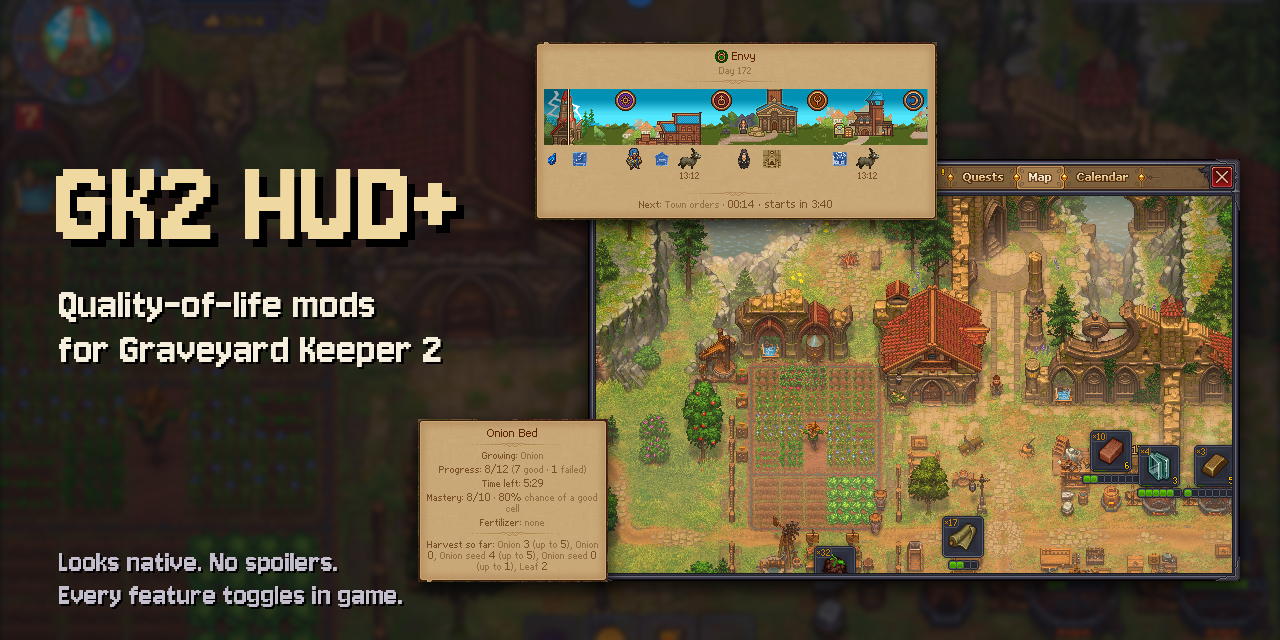
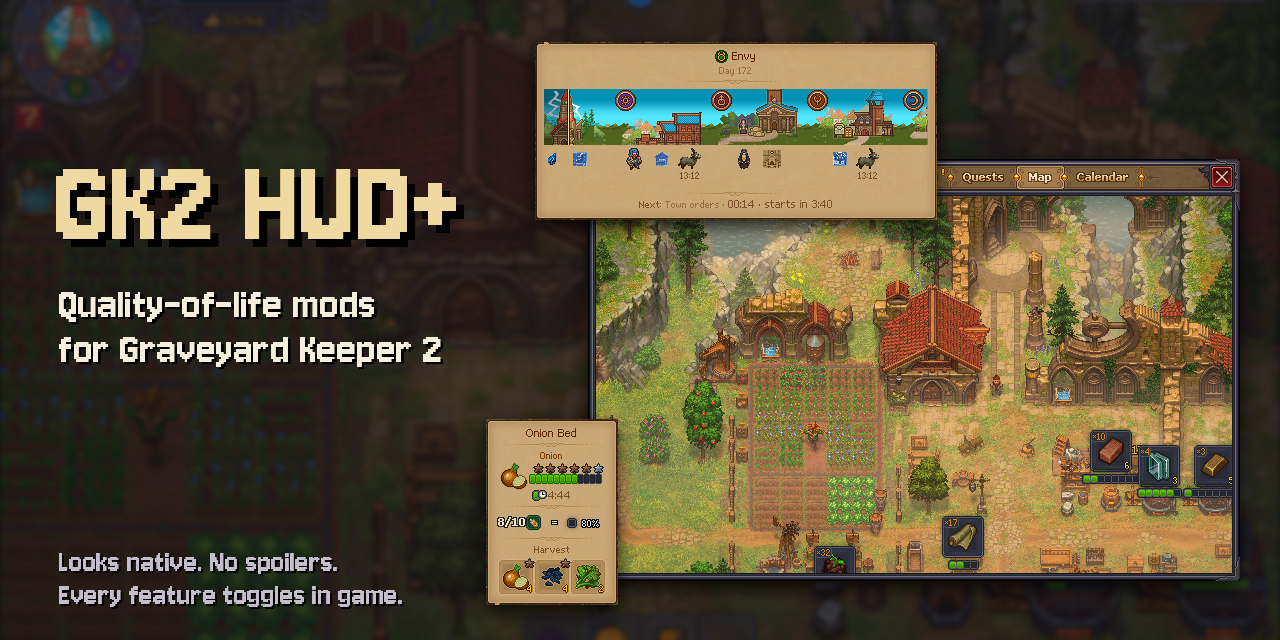
Capa e clipe de gameplay com os tooltips em dois níveis: a capa mostra a bolha de mundo fixada (barra de células, chance e colheita) alinhada ao pé da janela do mapa, e as tomadas de mundo e de tooltips do clipe foram regravadas

Changed region(s): [[0.3125, 0.6562, 0.5, 0.9688]]

diff --git a/tools/rec/cover.py b/tools/rec/cover.py
@@ -1,7 +1,7 @@
 #!/usr/bin/env python3
 """Capa do projeto a partir de prints reais do green (.shots/*-capa-<nome>.png, o mais recente de cada).
 
-Prints: capa-limpo (quintal), capa-mundo (demo-world FIM=primeiro), capa-medalhao (demo-calendar MODO=medalhao FIM=meio),
+Prints: capa-limpo (quintal), capa-mundo (demo-world FIM=primeiro, fixado com gk2hud-mundo-fixar.cs LINK vazio), capa-medalhao (demo-calendar MODO=medalhao FIM=meio),
 capa-mapa (demo-map MODO=zoom FIM=meio). Saídas: docs/showcase/cover.png (1280x640: topo do README e prévia social do
 GitHub) e docs/media/capa/ (matriz 2560x1280 e quadrada 1024 para a miniatura da Workshop).
 
@@ -59,7 +59,7 @@ def text(draw, xy, s, size, color, anchor="la"):
 
 
 clean, world, wheel, gmap = shot("limpo"), shot("mundo"), shot("medalhao"), shot("mapa")
-tip = world.crop(parchment_box(world, (380, 140, 820, 520)))
+tip = world.crop(parchment_box(world, (380, 140, 820, 760)))
 week = wheel.crop(parchment_box(wheel, (80, 220, 930, 620)))
 window = gmap.crop((308, 118, 1612, 962))
 print("recortes:", tip.size, week.size, window.size)
@@ -68,7 +68,7 @@ print("recortes:", tip.size, week.size, window.size)
 wide = backdrop(clean, (2560, 1280))
 paste(wide, window, (1176, 318))
 paste(wide, week, (1070, 84))
-paste(wide, tip, (836, 838))
+paste(wide, tip, (1176 - tip.width + 60, 1280 - 70 - tip.height))   # sobre o canto da janela, com o pé alinhado a ela
 d = ImageDraw.Draw(wide)
 text(d, (112, 268), "GK2 HUD+", 262, GOLD)
 text(d, (118, 560), "Quality-of-life mods", 92, CREAM)
